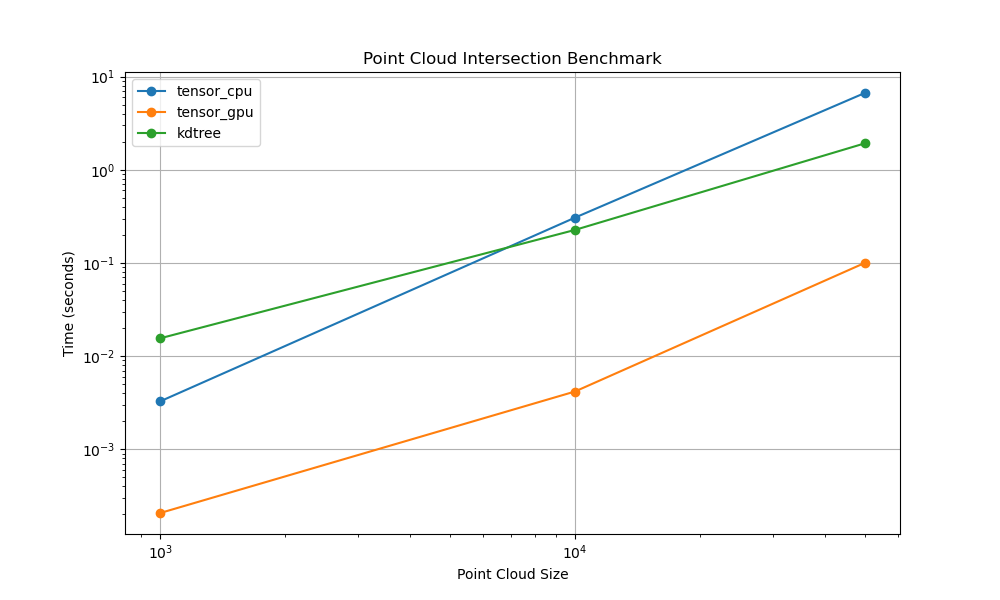
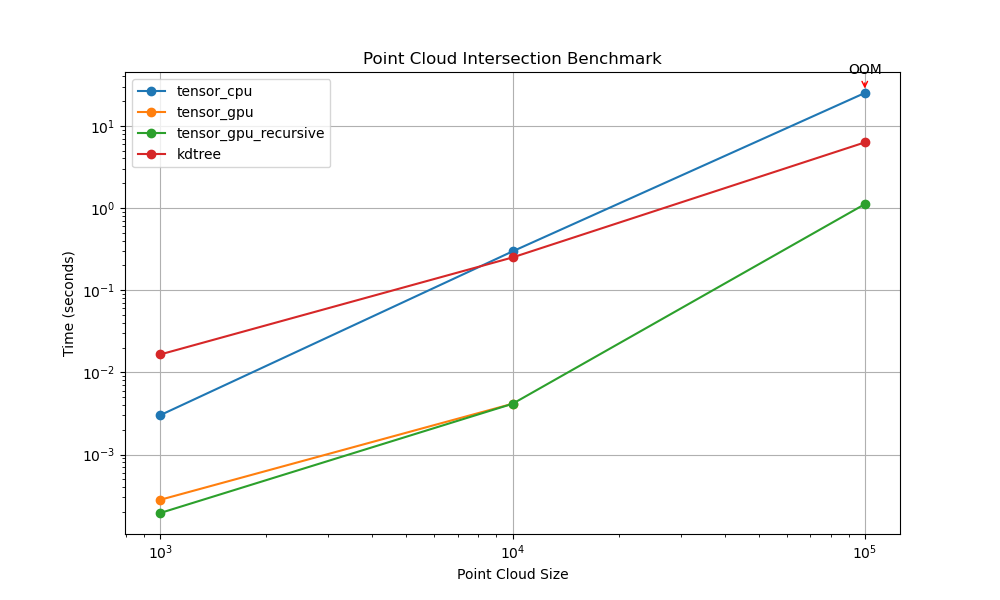
f

diff --git a/benchmarks/point_cloud_intersection_benchmark.py b/benchmarks/point_cloud_intersection_benchmark.py
@@ -392,7 +392,7 @@ def plot_results(sizes: List[int], results: Dict[str, List[float]], save_path: s
 def main():
     """Main function to run benchmarks."""
     # Define point cloud sizes to benchmark (10^3 to 10^6)
-    sizes = [int(1e3), int(1e4), int(1e5)]
+    sizes = [int(1e3), int(1e4), int(1e5), int(1e6)]
 
     # Run benchmarks
     results = benchmark_implementations(sizes)
